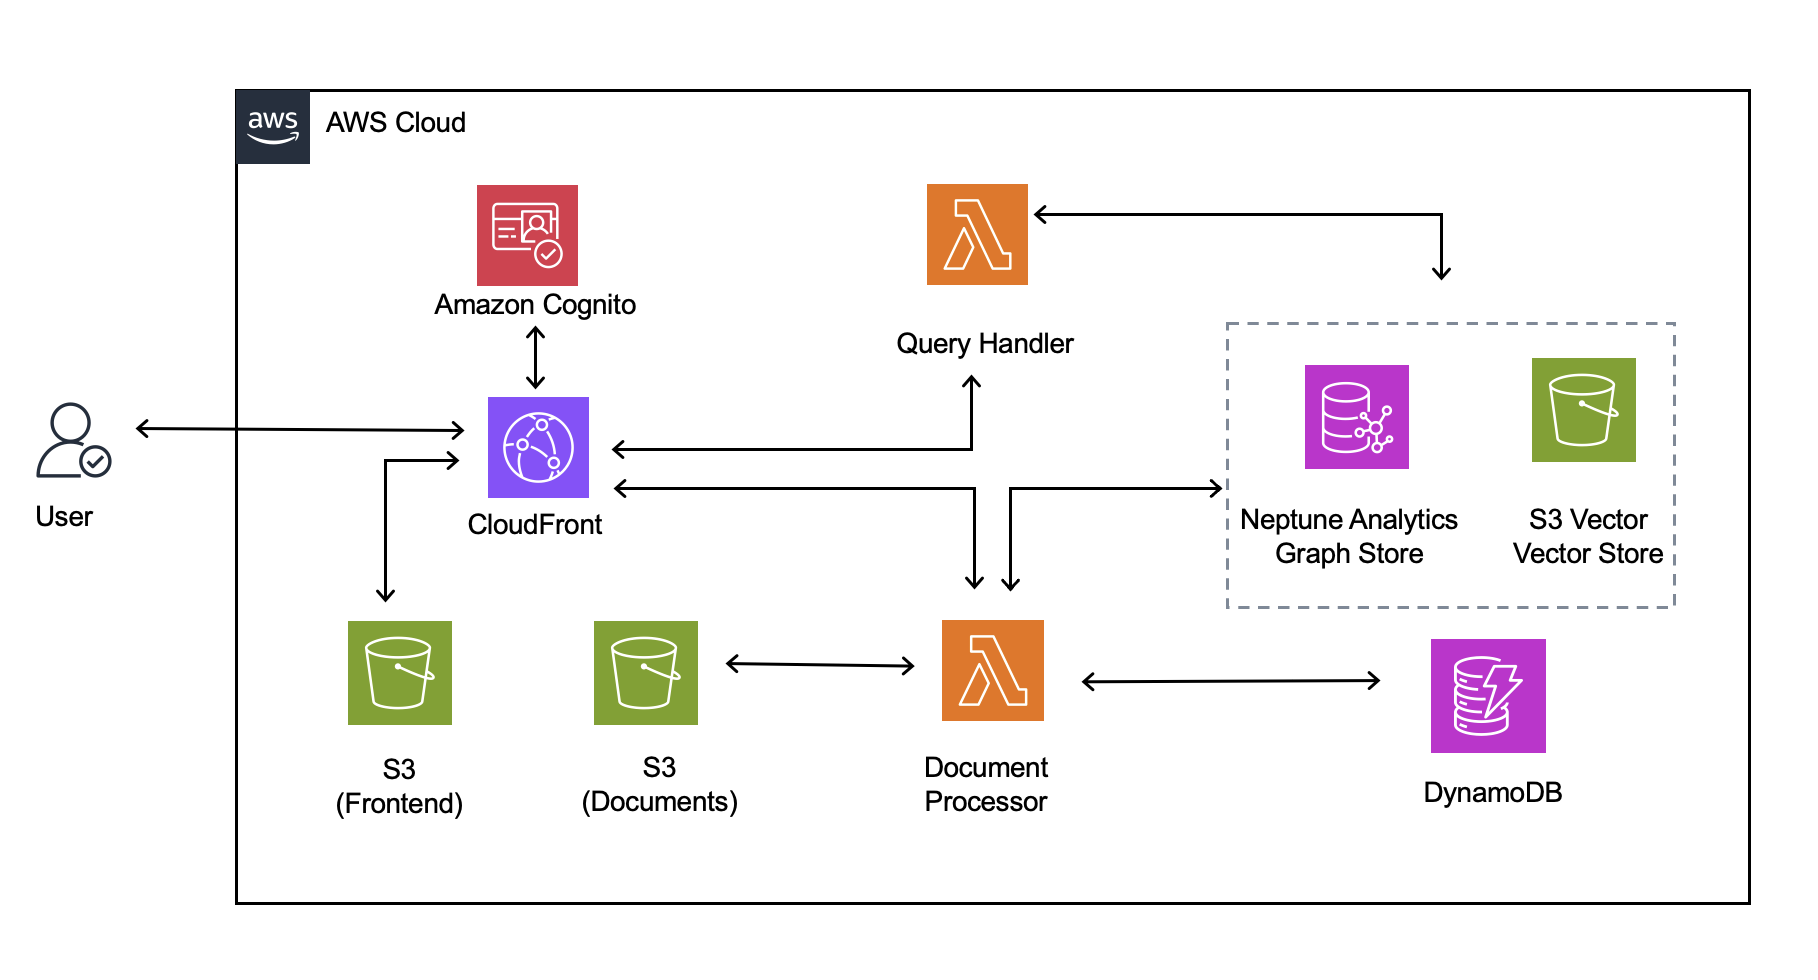
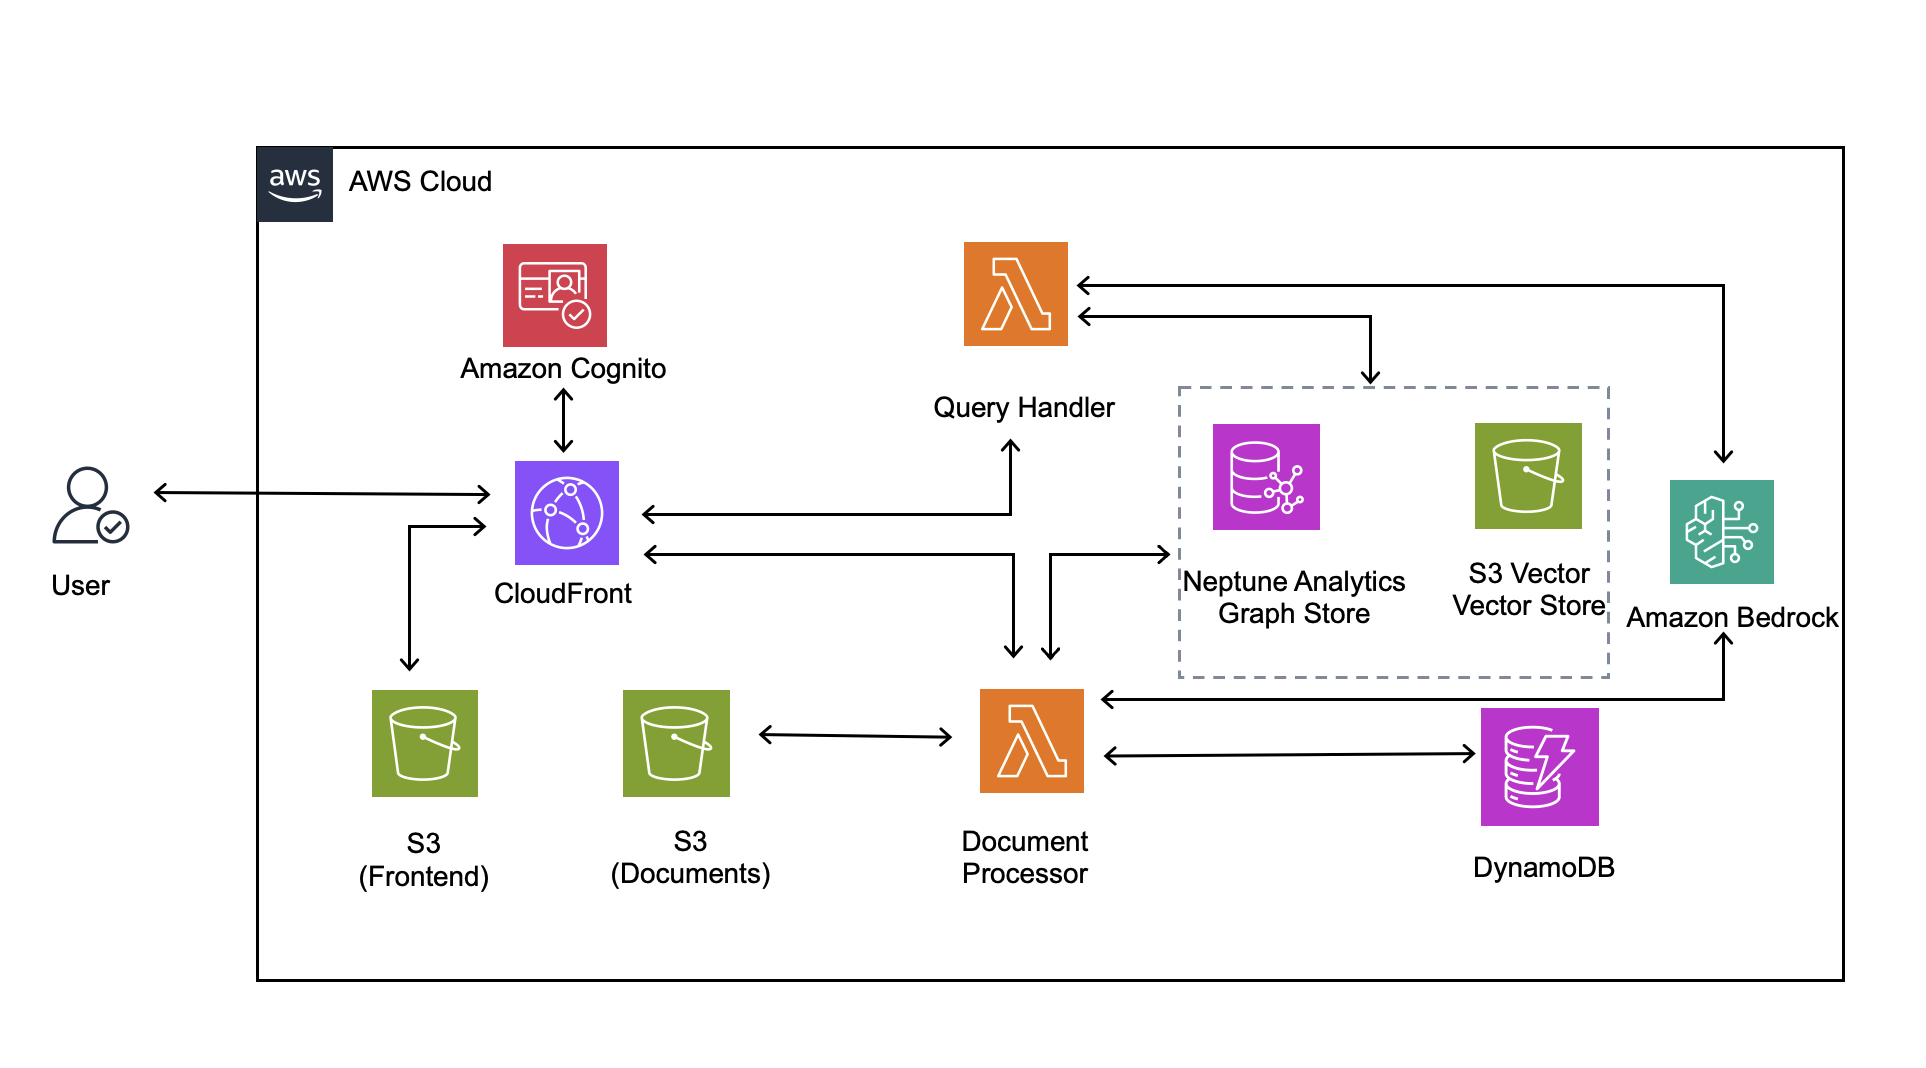
Update README and architecture diagram

Changed region(s): [[0.0, 0.0918, 0.9857, 0.949], [0.4928, 0.1837, 0.8933, 0.4592], [0.1848, 0.6122, 0.2464, 0.8265]]

diff --git a/README.md b/README.md
@@ -197,12 +197,12 @@ If you want to reduce this redundancy, you can add an entity-resolution or enric
 >
 > This demo uses **Neptune Analytics for the graph store** and **Amazon S3 Vectors for the vector store**. For advanced configuration (custom reranking, retrieval strategies), see the [lexical-graph documentation](https://github.com/awslabs/graphrag-toolkit/tree/main/docs/lexical-graph).
 
-- **Neptune Analytics**: ~$0.10/GB-hour (128 GB minimum ≈ $12.80/hour)
+- **Neptune Analytics**: ~$3.84/hour(128 m-NCUs) 
 - **Lambda**: Pay per invocation and duration
 - **Bedrock**: Pay per token (extraction + generation)
 - **S3/DynamoDB/CloudFront**: Minimal for demo usage
 
-**Destroy the stack when not in use** to avoid Neptune Analytics charges:
+**Destroy the stack when not in use**
 
 ```bash
 cd infra && cdk destroy
